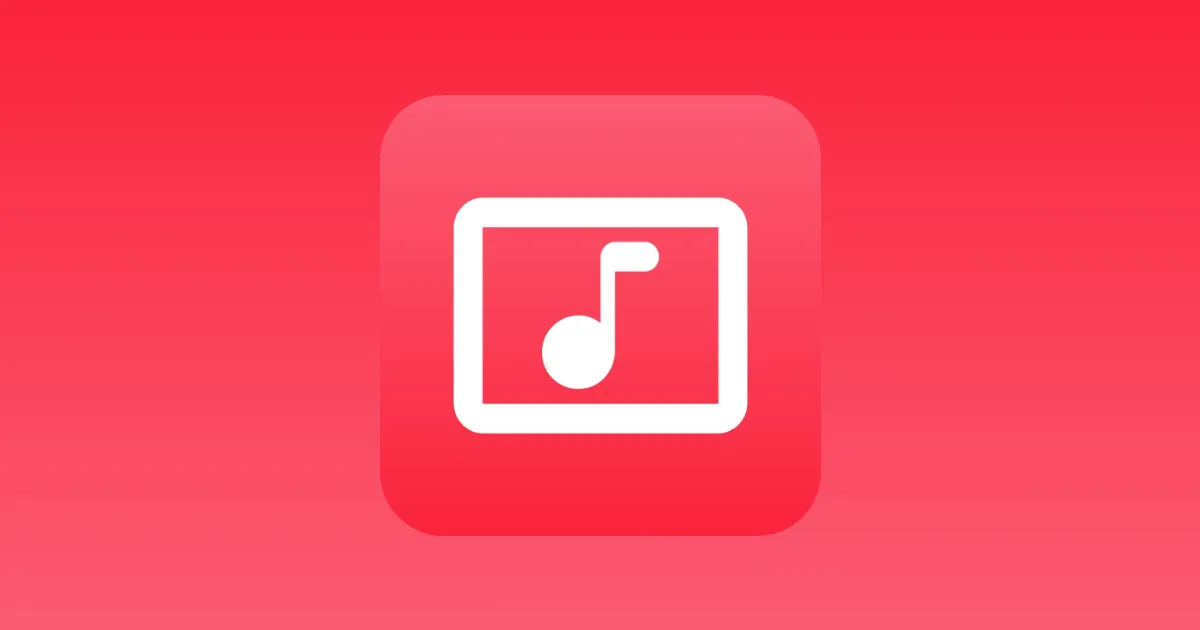
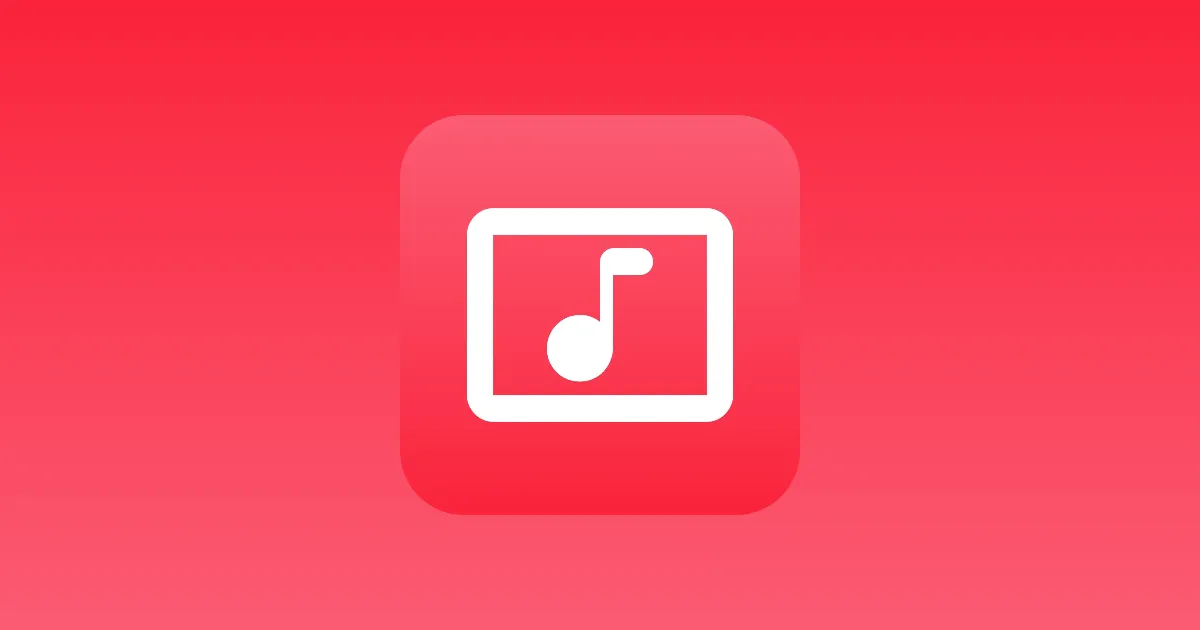
chore: implemented feature graphic and ogp generator

Changed region(s): [[0.37, 0.3016, 0.6475, 0.6937], [0.3083, 0.6635, 0.7092, 0.8746], [0.3083, 0.1508, 0.7092, 0.3317]]

diff --git a/packages/core/test/utils/feature_graphic.dart b/packages/core/test/utils/feature_graphic.dart
@@ -1,0 +1,78 @@
+import 'package:flutter/material.dart';
+import 'package:flutter_test/flutter_test.dart';
+import 'package:freezed_annotation/freezed_annotation.dart';
+
+import 'golden_test_combo.dart';
+
+@isTest
+void featureGraphic({
+  required Image appIcon,
+  required Color base,
+  required Color baseDark,
+}) {
+  final values = [
+    (
+      size: const Size(1024, 500),
+      description: 'Feature Graphic',
+      out: 'feature-graphic.png',
+    ),
+    (
+      size: const Size(1200, 630),
+      description: 'OGP',
+      out: 'ogp.png',
+    ),
+  ];
+
+  for (final e in values) {
+    testWidgets(
+      e.description,
+      (tester) async {
+        await tester.binding.setSurfaceSize(e.size);
+        addTearDown(
+          () => tester.binding.setSurfaceSize(null),
+        );
+
+        tester.view.devicePixelRatio = 1.0;
+        addTearDown(
+          tester.view.resetDevicePixelRatio,
+        );
+
+        final rootKey = UniqueKey();
+
+        final widget = Container(
+          key: rootKey,
+          decoration: BoxDecoration(
+            gradient: LinearGradient(
+              begin: Alignment.topCenter,
+              end: Alignment.bottomCenter,
+              colors: [
+                base,
+                baseDark,
+              ],
+            ),
+          ),
+          child: Center(
+            child: ClipRRect(
+              borderRadius: BorderRadius.circular(64),
+              child: SizedBox.square(
+                dimension: e.size.width / 3,
+                child: appIcon,
+              ),
+            ),
+          ),
+        );
+
+        await tester.runAsync(() async {
+          await tester.pumpWidget(widget);
+          await precacheImages(tester);
+        });
+
+        await expectLater(
+          find.byKey(rootKey),
+          matchesGoldenFile(e.out),
+        );
+      },
+      tags: ['golden'],
+    );
+  }
+}

diff --git a/packages/listen_to_music_by_location/lib/my_app.dart b/packages/listen_to_music_by_location/lib/my_app.dart
@@ -23,10 +23,13 @@ class MyApp extends HookConsumerWidget {
     super.key,
   });
 
+  static const color = Color(0xFFFA233B);
+  static const darkColor = Color(0xFFFB5C74);
+
   static const theme = CupertinoThemeData(
     primaryColor: CupertinoDynamicColor.withBrightness(
-      color: Color(0xFFFA233B),
-      darkColor: Color(0xFFFB5C74),
+      color: color,
+      darkColor: darkColor,
     ),
   );
 

diff --git a/packages/listen_to_music_by_location/test/feature_graphic/feature_graphic_test.dart b/packages/listen_to_music_by_location/test/feature_graphic/feature_graphic_test.dart
@@ -1,0 +1,12 @@
+import 'package:listen_to_music_by_location/gen/assets.gen.dart';
+import 'package:listen_to_music_by_location/my_app.dart';
+
+import '../../../core/test/core.dart';
+
+void main() {
+  featureGraphic(
+    appIcon: Assets.images.appIcon.image(),
+    base: MyApp.color,
+    baseDark: MyApp.darkColor,
+  );
+}

diff --git a/packages/obento/test/feature_graphic/feature_graphic_test.dart b/packages/obento/test/feature_graphic/feature_graphic_test.dart
@@ -1,0 +1,12 @@
+import 'package:obento/gen/assets.gen.dart';
+import 'package:obento/my_app.dart';
+
+import '../../../core/test/core.dart';
+
+void main() {
+  featureGraphic(
+    appIcon: Assets.images.appIcon.image(),
+    base: myThemeBuilder.baseColor,
+    baseDark: myThemeBuilder.baseDarkColor,
+  );
+}

diff --git a/packages/core/test/core.dart b/packages/core/test/core.dart
@@ -1,4 +1,5 @@
 export 'mocks/firebase.mocks.mocks.dart';
 export 'utils/default_load_app_fonts.dart';
+export 'utils/feature_graphic.dart';
 export 'utils/golden_test_combo.dart';
 export 'utils/local_file_comparator_with_threshold.dart';
